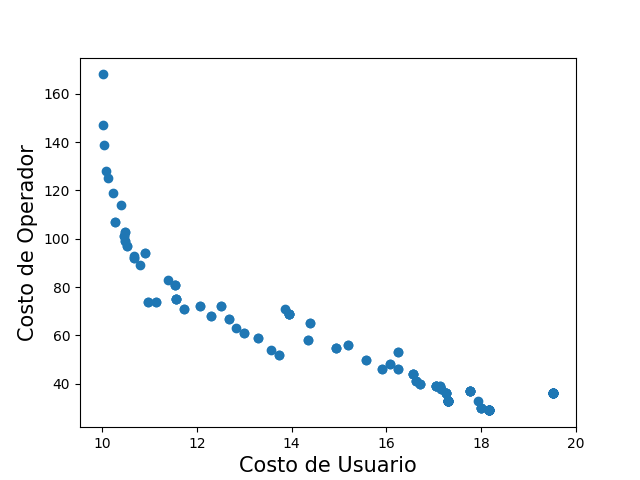
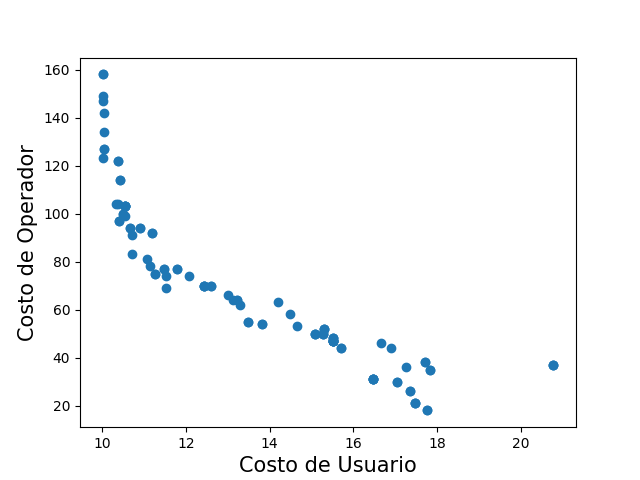
fix migration process

diff --git a/migration.py b/migration.py
@@ -1,4 +1,4 @@
-from concurrent.futures import ThreadPoolExecutor
+from concurrent.futures import ThreadPoolExecutor, as_completed
 from island import Island
 from population import Population
 
@@ -9,9 +9,12 @@ class Migration:
         self.islands = []
         for i in range(num_islands):
             num_of_individuals = num_population // num_islands
-            if i <= num_population % num_islands:
+            if i < num_population % num_islands:
                 num_of_individuals += 1
-            self.islands.append(Island(num_of_individuals, tndp, num_of_routes, num_of_tour_particips, tournament_prob, min_route, max_route))
+            island = Island(num_of_individuals, tndp, num_of_routes, num_of_tour_particips, tournament_prob, min_route, max_route)
+            self.islands.append(island)
+        for island in self.islands:
+            print(island.num_of_individuals)
         self.migration_every_gen = migration_every_gen
         self.num_of_generations = num_of_generations
         self.num_migrants = num_migrants
@@ -82,23 +85,20 @@ class Migration:
                 target_islands_index = random.choice([x for x in range(len(self.islands)) if x != i])
                 redistribution_plan[target_islands_index].append(migrant)
 
-        with ThreadPoolExecutor(max_workers=12) as executor:
+        with ThreadPoolExecutor(max_workers=5) as executor:
             futures = [executor.submit(self.islands[i].receive_migrants, redistribution_plan[i]) for i in range(len(redistribution_plan))]
-            for future in futures:
-                print(future.result())
+            for future in as_completed(futures):
+                future.result()
 
     def run(self):
-        with ThreadPoolExecutor(max_workers=12) as executor:
-            futures = [executor.submit(island.initialize_island) for island in self.islands]
-            for future in futures:
-                print(future.result())
-        futures = []
+        for island in self.islands:
+            island.initialize_island() 
         for generation in range(self.num_of_generations):
             with ThreadPoolExecutor(max_workers=12) as executor:
-                futures = [executor.submit(island.execute_generation) for island in self.islands]
+                futures = [executor.submit(island.execute_generation, ind) for ind, island in enumerate(self.islands)]
                 for future in futures:
-                    print(future.result())
-            if generation % self.migration_every_gen == 0:
+                    future.result()
+            if generation + 1 % self.migration_every_gen == 0:
                 self.migrate()
         
         

diff --git a/island.py b/island.py
@@ -1,5 +1,4 @@
 import random
-import multiprocessing
 import numpy as np
 from population import Population
 from routeset import RouteSet
@@ -101,29 +100,18 @@ class Island:
 
         return random_routeset
     
-    def create_individual(self, lock, shared_list):
+    def create_individual(self):
         individual = self.generate_individual()
         individual.calculate_objectives(self.graph, self.demand_matrix)
-        with lock:
-            shared_list.append(individual)
             
     def initialize_population(self):
         start = time.time()
         population = Population()
-        manager = multiprocessing.Manager()
-        lock = multiprocessing.Lock()
-        shared_list = manager.list() 
-        processes = []
         
         for _ in range(self.num_of_individuals):
-            p = multiprocessing.Process(target=self.create_individual, args=(lock, shared_list))
-            processes.append(p)
-            p.start()
-
-        for p in processes:
-            p.join()
-
-        population.population = list(shared_list)
+            individual = self.generate_individual()
+            individual.calculate_objectives(self.graph, self.demand_matrix)
+            population.population.append(individual)
 
         obj_1 = 0
         obj_2 = 0
@@ -283,16 +271,16 @@ class Island:
         for front in self.population.fronts:
             self.calculate_crowding_distance(front)
 
-    def execute_generation(self):
+    def execute_generation(self, num):
         children = self.create_children(self.population)
         self.population.extend(children)
         self.fast_non_dominated_sort(self.population)
         new_population = Population()
 
         front_num = 0
-        #print(len(self.population.fronts))
         while len(new_population) + len(self.population.fronts[front_num]) <= self.num_of_individuals:
             self.calculate_crowding_distance(self.population.fronts[front_num])
+            #print(len(self.population.fronts[front_num]), ' ', num)
             for rs in self.population.fronts[front_num]:
                 new_population.append(copy.deepcopy(rs))
             front_num += 1

diff --git a/new_mandl.py b/new_mandl.py
@@ -14,7 +14,7 @@ def main():
     g_coverage = []
 
     for nroutes in range(6,9):
-        nsga = Migration(num_population=100, num_of_generations=100, num_islands=6, migration_every_gen=10, num_migrants=5, tndp=tndp, num_of_routes=nroutes, num_of_tour_particips=2, tournament_prob=0.9, min_route=2, max_route=8)
+        nsga = Migration(num_population=100, num_of_generations=300, num_islands=5, migration_every_gen=20, num_migrants=3, tndp=tndp, num_of_routes=nroutes, num_of_tour_particips=2, tournament_prob=0.9, min_route=2, max_route=8)
         """
         for i in range(len(nsga.graph.nodes)):
             for edge in nsga.graph.nodes[i]:

diff --git a/modern_mandl.py b/modern_mandl.py
@@ -13,7 +13,7 @@ def main():
     g_coverage = []
 
     for nroutes in range(6,9):
-        nsga = NSGAII(num_of_individuals=50, generations=300, tndp=tndp, num_of_routes=nroutes, num_of_tour_particips=2, tournament_prob=0.9, min_route=2, max_route=8)
+        nsga = NSGAII(num_of_individuals=100, generations=300, tndp=tndp, num_of_routes=nroutes, num_of_tour_particips=2, tournament_prob=0.9, min_route=2, max_route=8)
         """
         for i in range(len(nsga.graph.nodes)):
             for edge in nsga.graph.nodes[i]:

diff --git a/routeset.py b/routeset.py
@@ -37,6 +37,8 @@ class RouteSet:
                         dt += demand_matrix[i][j] * t
                     else:
                         count += 1
+        if total_demand == 0:
+            return 5 + count / (len(demand_matrix) / 2)
         return dt / total_demand + count / (len(demand_matrix) / 2)
 
     def find_coverage(self, graph, demand_matrix):    
